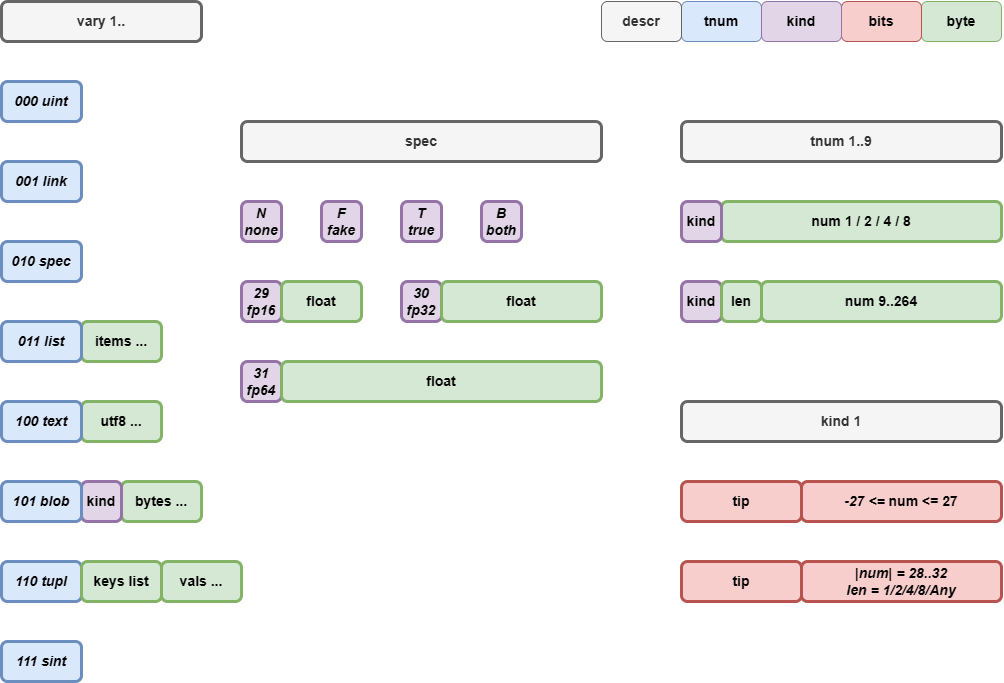
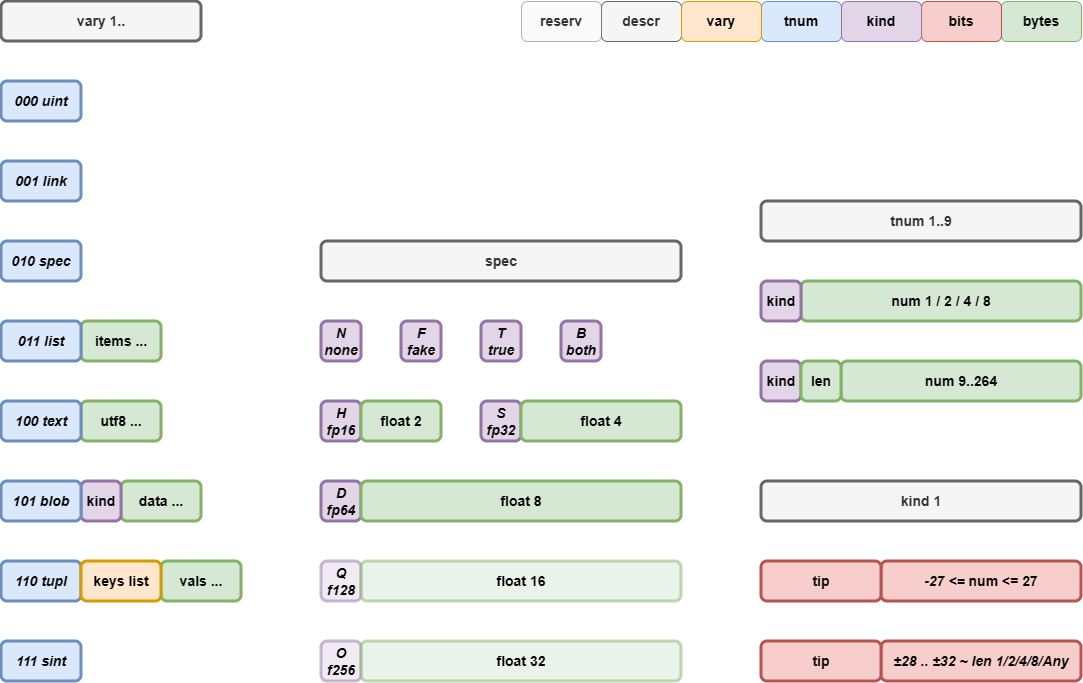
better isolation

diff --git a/vary/vary.ts b/vary/vary.ts
@@ -27,9 +27,9 @@ namespace $ {
 		fp16 = 'H'.charCodeAt(0),
 		fp32 = 'S'.charCodeAt(0),
 		fp64 = 'D'.charCodeAt(0),
+		f128 = 'Q'.charCodeAt(0),
+		f256 = 'O'.charCodeAt(0),
 	}
-	
-	export const $mol_vary_lean = Symbol.for( '$mol_vary_lean' )
 	
 	const pojo_maker = ( keys: readonly any[] )=> ( vals: readonly any[] )=> {
 		const obj = {} as any
@@ -40,6 +40,8 @@ namespace $ {
 	/** VaryPack - simple fast compact data binarization format. */
 	export class $mol_vary_class extends Object {
 		
+		lean_symbol = Symbol( '$mol_vary_lean' )
+	
 		array = new Uint8Array( 256 )
 		buffer = new DataView( this.array.buffer )
 		
@@ -250,7 +252,7 @@ namespace $ {
 				const offset = offsets.get( val )
 				if( offset !== undefined ) return dump_unum( $mol_vary_tip.link, offset )
 				
-				const [ keys, vals ] = ( val as any )[ $mol_vary_lean ]?.( val ) ?? [ shape( val ), Object.values( val ) ]
+				const [ keys, vals ] = this.lean_find( val )?.( val ) ?? [ shape( val ), Object.values( val ) ]
 			
 				dump_unum( $mol_vary_tip.tupl, vals.length )
 				acquire( (vals.length+1) * 9 )
@@ -552,6 +554,7 @@ namespace $ {
 		/** Isolated Vary for custom types */
 		room() {
 			const room = new $mol_vary_class
+			Object.setPrototypeOf( room, this )
 			const index_clone = ( map: Map< string | null, any > ): Map<any,any> => new Map(
 				[ ... map ].map(
 					([ k, v ])=> [ k, k === null ? v : index_clone( v ) ]
@@ -575,6 +578,17 @@ namespace $ {
 			return node
 		}
 		
+		lean_find( val: any ) {
+			
+			const lean = val[ this.lean_symbol ]
+			if( lean ) return lean
+			
+			const sup = Object.getPrototypeOf( this )
+			if( sup === Object.prototype ) return
+			
+			return sup.lean_find( val )
+		}
+		
 		/** Adds custom types support. */
 		type<
 			const Instance extends object,
@@ -587,7 +601,7 @@ namespace $ {
 			rich: ( vals: Vals )=> Instance,
 		}) {
 			this.rich_node( keys ).set( null, rich )
-			;( type.prototype as any )[ $mol_vary_lean ] = ( val: Instance )=> [ keys, lean( val ) ]
+			;( type.prototype as any )[ this.lean_symbol ] = ( val: Instance )=> [ keys, lean( val ) ]
 		}
 		
 	}

diff --git a/vary/vary.test.tsx b/vary/vary.test.tsx
@@ -330,7 +330,7 @@ namespace $.$$ {
 			)
 		},
 		
-		"vary pack custom class"( $ ) {
+		"vary pack custom types in rooms"( $ ) {
 			
 			class Foo {
 				
@@ -364,7 +364,7 @@ namespace $.$$ {
 			// isolated
 			$mol_assert_equal(
 				$mol_vary.take( $mol_vary.pack( new Foo( 4, 2 ) ) ),
-				{ summ: 6, diff: 2 } as any,
+				{ a: 4, b: 2 } as any,
 			)
 			
 			// inherited
